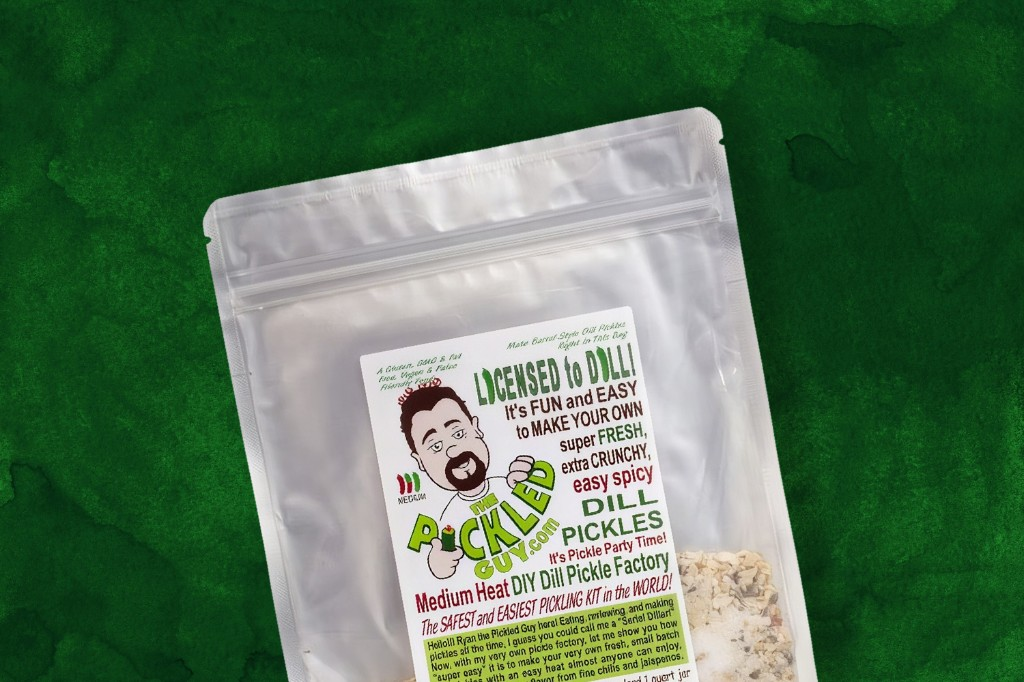
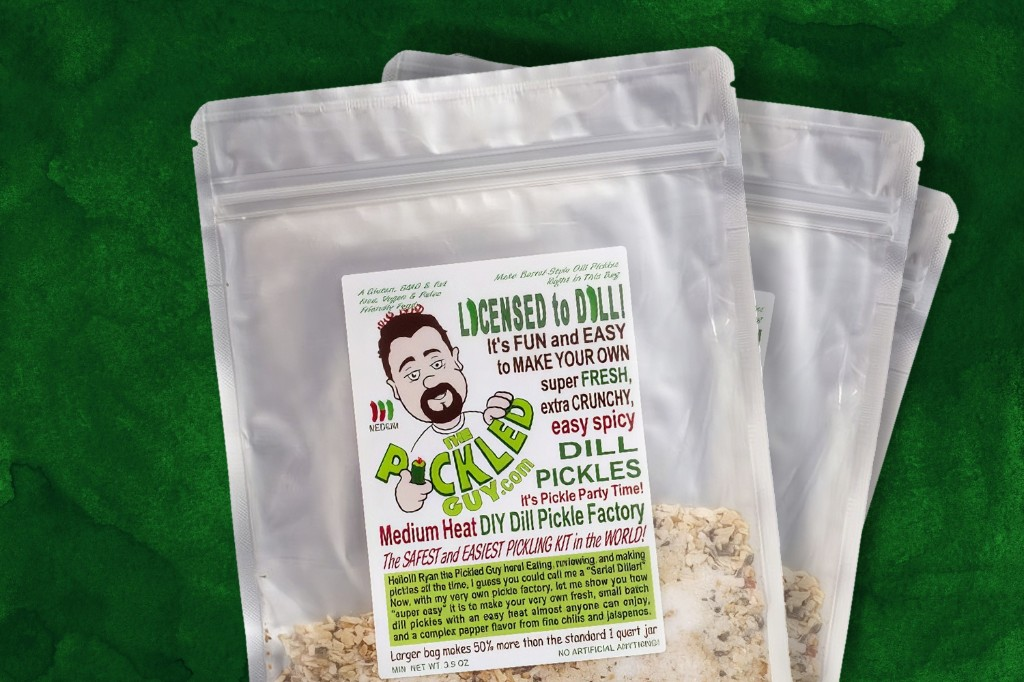
Speed up DIY giveaway pages and swap in the three-pouch hero.
Drop Sanity recommended-article fetches from giveaway SSR (they were hanging on TLS blips) and fail fast on missing reader tokens / long magic calls.

diff --git a/apps/thepicklereport/src/lib/giveaway-api.js b/apps/thepicklereport/src/lib/giveaway-api.js
@@ -19,13 +19,36 @@ export async function callGiveawayApi(body, opts = {}) {
   const headers = { "Content-Type": "application/json" };
   if (opts.bearer) {
     const token = getReaderToken();
-    if (token) headers.Authorization = `Bearer ${token}`;
+    if (!token) {
+      const err = new Error("Unauthorized");
+      err.status = 401;
+      err.data = { error: "Unauthorized" };
+      throw err;
+    }
+    headers.Authorization = `Bearer ${token}`;
   }
-  const res = await fetch(giveawayApiUrl(), {
-    method: "POST",
-    headers,
-    body: JSON.stringify(body),
-  });
+  const controller = new AbortController();
+  const timeoutMs = opts.timeoutMs ?? 25000;
+  const timer = setTimeout(() => controller.abort(), timeoutMs);
+  let res;
+  try {
+    res = await fetch(giveawayApiUrl(), {
+      method: "POST",
+      headers,
+      body: JSON.stringify(body),
+      signal: controller.signal,
+    });
+  } catch (e) {
+    clearTimeout(timer);
+    if (e?.name === "AbortError") {
+      const err = new Error("Giveaway API timed out");
+      err.status = 408;
+      err.data = { error: "timeout" };
+      throw err;
+    }
+    throw e;
+  }
+  clearTimeout(timer);
   const data = await res.json().catch(() => ({}));
   if (!res.ok) {
     const err = new Error(data.error || `Giveaway API ${res.status}`);

diff --git a/apps/thepicklereport/src/app/giveaway/[slug]/page.js b/apps/thepicklereport/src/app/giveaway/[slug]/page.js
@@ -1,12 +1,7 @@
 import { notFound } from "next/navigation";
 import { Suspense } from "react";
 import { getGiveaway, GIVEAWAYS, giveawayIndexRobots } from "@/config/giveaways";
-import { getArticles } from "@/lib/articles";
-import { pickRandomArticles } from "@/lib/pickRandomArticles";
-import RecommendedArticleCards from "@/components/RecommendedArticleCards";
 import GiveawayLanding from "./GiveawayLanding";
-
-const READ_MORE_COUNT = 3;
 
 export function generateStaticParams() {
   return GIVEAWAYS.map((g) => ({ slug: g.slug }));
@@ -28,15 +23,11 @@ export default async function GiveawayPage({ params }) {
   const giveaway = getGiveaway(slug);
   if (!giveaway) notFound();
 
-  const allArticles = await getArticles();
-  const readMore = pickRandomArticles(allArticles, { count: READ_MORE_COUNT });
-
+  // No Sanity "read more" fetch here — EO/BQ/CIO already make enter heavy, and
+  // Sanity TLS blips were hanging SSR during giveaway QA.
   return (
-    <>
-      <Suspense>
-        <GiveawayLanding giveaway={giveaway} />
-      </Suspense>
-      <RecommendedArticleCards articles={readMore} />
-    </>
+    <Suspense>
+      <GiveawayLanding giveaway={giveaway} />
+    </Suspense>
   );
 }

diff --git a/apps/thepicklereport/src/app/giveaway/[slug]/entered/page.js b/apps/thepicklereport/src/app/giveaway/[slug]/entered/page.js
@@ -1,12 +1,7 @@
 import { notFound } from "next/navigation";
 import { Suspense } from "react";
 import { getGiveaway, GIVEAWAYS } from "@/config/giveaways";
-import { getArticles } from "@/lib/articles";
-import { pickRandomArticles } from "@/lib/pickRandomArticles";
-import RecommendedArticleCards from "@/components/RecommendedArticleCards";
 import GiveawayEntered from "./GiveawayEntered";
-
-const READ_MORE_COUNT = 3;
 
 export function generateStaticParams() {
   return GIVEAWAYS.map((g) => ({ slug: g.slug }));
@@ -27,15 +22,10 @@ export default async function GiveawayEnteredPage({ params }) {
   const giveaway = getGiveaway(slug);
   if (!giveaway) notFound();
 
-  const allArticles = await getArticles();
-  const readMore = pickRandomArticles(allArticles, { count: READ_MORE_COUNT });
-
+  // Keep /entered free of Sanity so the enter spinner isn't blocked on CMS.
   return (
-    <>
-      <Suspense>
-        <GiveawayEntered giveaway={giveaway} />
-      </Suspense>
-      <RecommendedArticleCards articles={readMore} />
-    </>
+    <Suspense>
+      <GiveawayEntered giveaway={giveaway} />
+    </Suspense>
   );
 }

diff --git a/apps/thepicklereport/src/app/giveaway/[slug]/entered/GiveawayEntered.js b/apps/thepicklereport/src/app/giveaway/[slug]/entered/GiveawayEntered.js
@@ -207,7 +207,9 @@ export default function GiveawayEntered({ giveaway }) {
               ? "Subscribe to The Pickle Report first, then enter the draw."
               : err?.data?.action === "invalid_email"
                 ? "We couldn’t verify that email address. Please check it and enter again."
-                : "Something went wrong entering you in the draw. Please try again.";
+                : err?.data?.error === "timeout" || err?.status === 408
+                  ? "That took too long — please try entering again."
+                  : "Something went wrong entering you in the draw. Please try again.";
           setMessage(detail);
         }
       }

diff --git a/apps/thepicklereport/src/config/giveaways.js b/apps/thepicklereport/src/config/giveaways.js
@@ -103,7 +103,7 @@ export const GIVEAWAYS = [
       "Gather your friends, pour the vinegar, and start the pickling party.",
     heroImage: "/giveaway/diy-pickle-party-pack.jpg",
     heroImageAlt:
-      "The Pickled Guy DIY dill pickle kit pouch — Licensed to Dill Medium Heat DIY Dill Pickle Factory",
+      "Three The Pickled Guy DIY dill pickle kit pouches — Licensed to Dill Medium Heat DIY Dill Pickle Factory",
     listed: false,
   },
   {

diff --git a/apps/thepicklereport/src/app/giveaway/[slug]/GiveawayLanding.js b/apps/thepicklereport/src/app/giveaway/[slug]/GiveawayLanding.js
@@ -81,6 +81,7 @@ export default function GiveawayLanding({ giveaway }) {
     let cancelled = false;
     (async () => {
       try {
+        // Only when a reader token exists — avoids a burst of 401s for unsigned visitors.
         const stats = await callGiveawayApi(
           {
             action: "stats",
